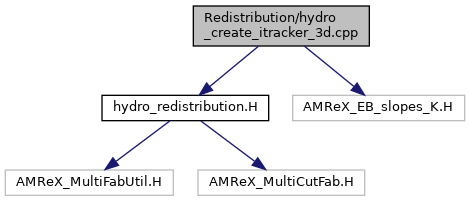
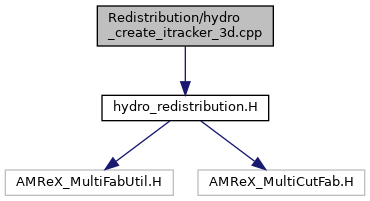
Deploying to main from  @ 4b0eabb487654ac0f974c9b54ef1ad953b7e4c72 🚀

diff --git a/amrex-hydro/Doxygen/html/hydro__create__itracker__3d_8cpp.html b/amrex-hydro/Doxygen/html/hydro__create__itracker__3d_8cpp.html
@@ -97,15 +97,13 @@ $(document).ready(function(){initNavTree('hydro__create__itracker__3d_8cpp.html'
 </div><!--header-->
 <div class="contents">
 <div class="textblock"><code>#include &lt;<a class="el" href="hydro__redistribution_8H_source.html">hydro_redistribution.H</a>&gt;</code><br />
-<code>#include &lt;AMReX_EB_slopes_K.H&gt;</code><br />
 </div><div class="textblock"><div class="dynheader">
 Include dependency graph for hydro_create_itracker_3d.cpp:</div>
 <div class="dyncontent">
 <div class="center"><img src="hydro__create__itracker__3d_8cpp__incl.png" border="0" usemap="#Redistribution_2hydro__create__itracker__3d_8cpp" alt=""/></div>
 <map name="Redistribution_2hydro__create__itracker__3d_8cpp" id="Redistribution_2hydro__create__itracker__3d_8cpp">
-<area shape="rect" title=" " alt="" coords="193,5,369,47"/>
+<area shape="rect" title=" " alt="" coords="97,5,273,47"/>
 <area shape="rect" href="hydro__redistribution_8H.html" title=" " alt="" coords="102,95,269,121"/>
-<area shape="rect" title=" " alt="" coords="293,95,465,121"/>
 <area shape="rect" title=" " alt="" coords="5,169,173,196"/>
 <area shape="rect" title=" " alt="" coords="198,169,365,196"/>
 </map>
